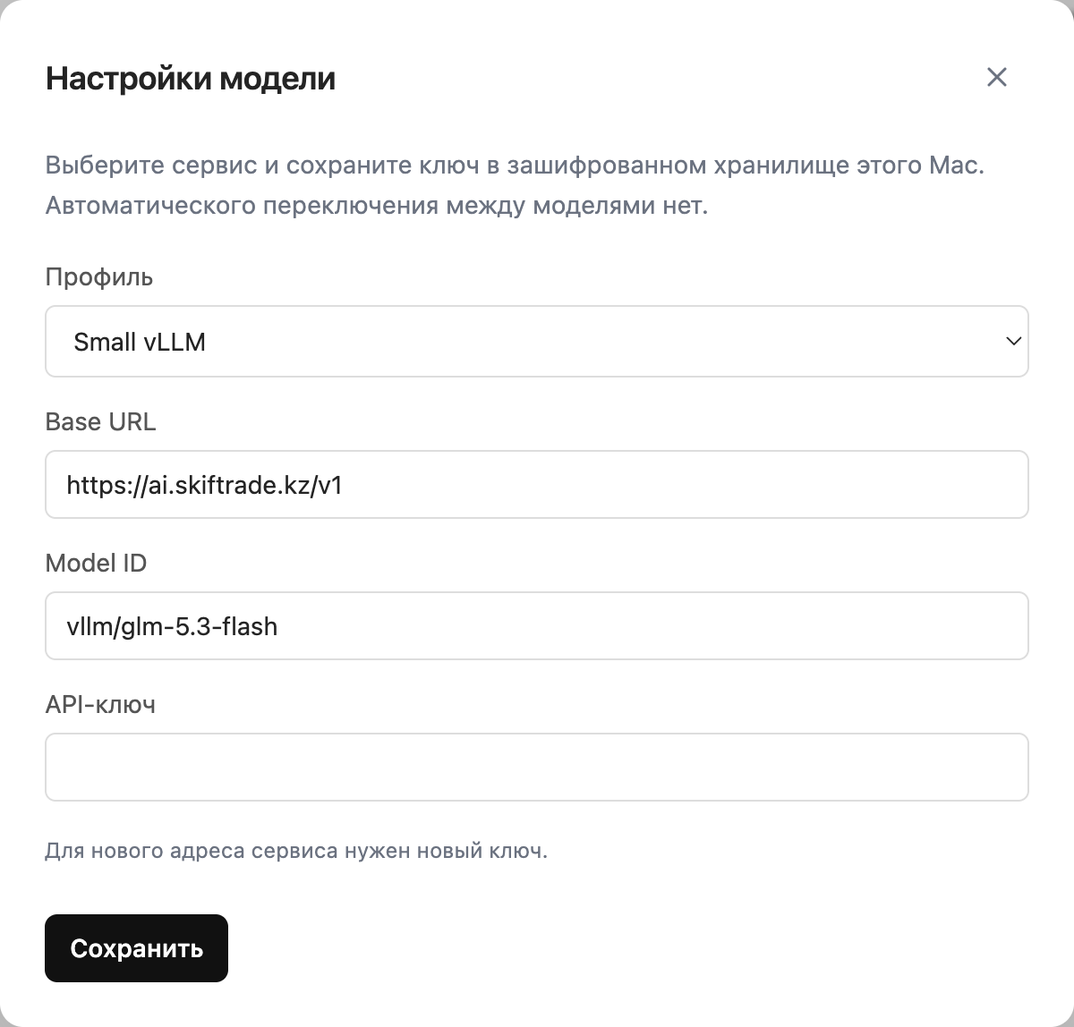
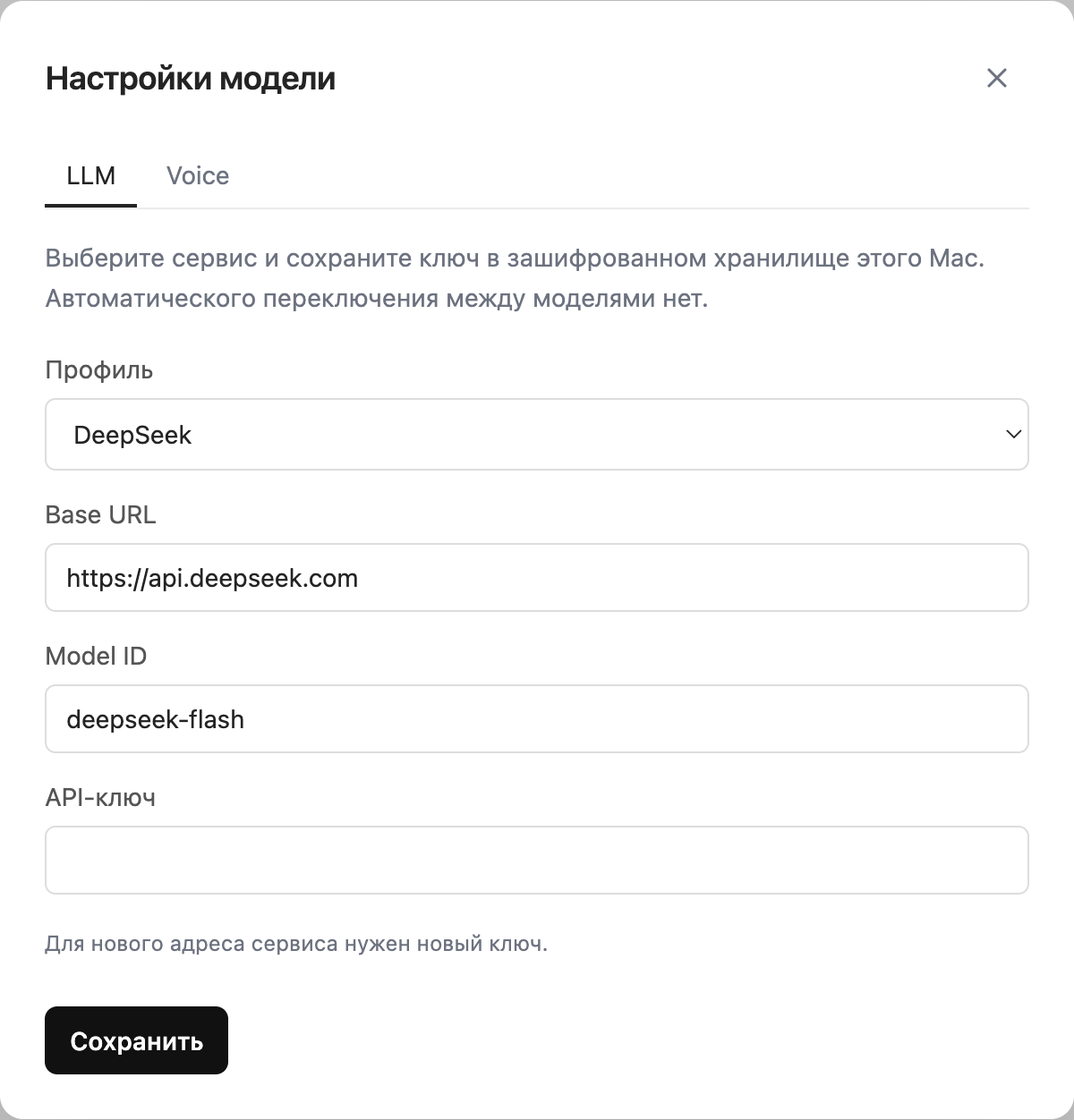
docs: add in-app dictation guide and refresh model setup instructions

diff --git a/docs/install/index.html b/docs/install/index.html
@@ -34,7 +34,10 @@
           ><a href="#launch"><span>03</span> Первый запуск</a
           ><a href="#permission"><span>04</span> Разрешить открытие</a
           ><a href="#small"><span>05</span> Войти в Small</a
-          ><a href="#llm"><span>06</span> Настроить ассистента</a>
+          ><a href="#llm"><span>06</span> Настроить LLM</a>
+          <a href="#voice"><span>07</span> Настроить Voice</a>
+          <a href="#dictation"><span>08</span> Голосовой ввод</a>
+          <a href="#changelog"><span>↻</span> Changelog</a>
         </nav>
         <div class="sidebar-note">
           Для Mac с Apple Silicon<br /><span>M1, M2, M3, M4 и новее</span>
@@ -49,7 +52,7 @@
             AI-ассистента. Пройдём каждый шаг вместе.
           </p>
           <div class="facts">
-            <span>macOS · Apple Silicon</span><span>6 простых шагов</span
+            <span>macOS · Apple Silicon</span><span>8 простых шагов</span
             ><span>Предварительная версия</span>
           </div>
         </section>
@@ -327,16 +330,19 @@
               <strong>«Настройки модели»</strong> в правом верхнем углу.
             </li>
             <li>
-              Выберите профиль <strong>Small vLLM</strong> для корпоративного
-              сервиса или <strong>«Персональный OpenAI-compatible»</strong> для
-              своего провайдера.
+              Откройте вкладку <strong>LLM</strong>. Выберите профиль
+              <strong>Small vLLM</strong>, <strong>DeepSeek</strong> или
+              <strong>OpenAI Compatible</strong>. У каждого профиля отдельный
+              API-ключ.
             </li>
             <li>
               Проверьте поля ниже и вставьте ваш <strong>API-ключ</strong>.
             </li>
             <li>
-              Нажмите <strong>«Сохранить»</strong>. Дождитесь сообщения
-              <strong>«Профиль сохранён и выбран»</strong>.
+              Нажмите <strong>«Сохранить»</strong>. Окно закроется, а
+              сохранённый профиль станет активным. Для переключения между
+              сохранёнными моделями нажмите название модели рядом с полем
+              сообщения.
             </li>
           </ol>
           <div class="mock-stage">
@@ -346,6 +352,7 @@
               aria-label="Схема Настроек модели: профиль Small vLLM, Base URL https://ai.skiftrade.kz/v1, Model ID vllm/glm-5.3-flash, пустое поле API-ключ и кнопка Сохранить."
             >
               <strong class="dialog-title">Настройки модели</strong>
+              <div class="mock-label">LLM · Voice — выбрана LLM</div>
               <div class="mock-label">Профиль</div>
               <div class="mock-field">Small vLLM <span>⌄</span></div>
               <div class="mock-label">Base URL</div>
@@ -401,6 +408,89 @@
             </p>
           </details>
         </section>
+        <section class="step" id="voice">
+          <div class="step-heading">
+            <span class="number">07</span>
+            <div>
+              <p class="eyebrow">МОДЕЛЬ РЕЧИ</p>
+              <h2>Настройте Voice</h2>
+            </div>
+          </div>
+          <p>
+            В «Настройках модели» доступны две вкладки: <strong>LLM</strong> для
+            модели ответов и <strong>Voice</strong> для распознавания речи.
+            Голосовой ввод использует Whisper large-v3-turbo и не требует
+            API-ключа.
+          </p>
+          <ol>
+            <li>
+              Откройте вкладку <strong>Voice</strong> и нажмите
+              <strong>«Скачать модель · 1,62 GB»</strong>. Модель скачивается
+              отдельно от приложения.
+            </li>
+            <li>
+              Следите за процентами, объёмом, скоростью и оставшимся временем.
+              Доступны пауза, продолжение и отмена. Дождитесь проверки и чипа
+              <strong>«Модель готова»</strong>.
+            </li>
+            <li>
+              В поле <strong>«Источник звука»</strong> выберите микрофон.
+              Нажмите <strong>«Проверить микрофон»</strong> и разрешите доступ в
+              macOS. Уровень звука показывается индикатором; проверка
+              автоматически закончится через 10 секунд.
+            </li>
+          </ol>
+          <p>
+            Распознавание выполняется локально. После установки модели для
+            диктовки интернет не нужен; для ответов ассистента нужен
+            подключённый LLM-сервис.
+          </p>
+          <details>
+            <summary>Микрофон не работает или модель больше не нужна</summary>
+            <p>
+              Проверьте «Системные настройки» → «Конфиденциальность и
+              безопасность» → «Микрофон» → Small Calendar. Если устройство
+              отключено, подключите его или выберите другой источник. Кнопка
+              «Удалить модель» освобождает место; для следующей диктовки модель
+              потребуется скачать снова.
+            </p>
+          </details>
+        </section>
+        <section class="step" id="dictation">
+          <div class="step-heading">
+            <span class="number">08</span>
+            <div>
+              <p class="eyebrow">РАБОТА С АССИСТЕНТОМ</p>
+              <h2>Как пользоваться голосовым вводом</h2>
+            </div>
+          </div>
+          <ol>
+            <li>
+              После появления «Модель готова» закройте настройки. Рядом с
+              отправкой сообщения появится кнопка микрофона.
+            </li>
+            <li>
+              Поставьте курсор в поле сообщения и нажмите микрофон. В режиме
+              <strong>«Слушаю»</strong> надиктуйте запрос по-русски, например:
+              «Покажи мои встречи на завтра».
+            </li>
+            <li>
+              Нажмите кнопку с квадратом, чтобы закончить запись. Дождитесь
+              распознавания: текст вставится в позицию курсора или заменит
+              выделенный фрагмент.
+            </li>
+            <li>
+              Проверьте имена, даты и время, исправьте текст и нажмите отправку.
+              Диктовка сама сообщение не отправляет.
+            </li>
+          </ol>
+          <div class="note">
+            Крестик или Escape отменяют запись и распознавание без вставки
+            результата. Лимит записи — 120 секунд; затем запись автоматически
+            останавливается и распознаётся. Если текст длиннее 2000 символов,
+            сократите его перед отправкой.
+          </div>
+        </section>
         <section class="finish">
           <span class="check" aria-hidden="true">✓</span>
           <div>
@@ -410,6 +500,98 @@
               расписания на сегодня.
             </p>
           </div>
+        </section>
+        <section class="step" id="changelog" aria-labelledby="changelog-title">
+          <div class="step-heading">
+            <span class="number" aria-hidden="true">↻</span>
+            <div>
+              <p class="eyebrow">ИСТОРИЯ ИЗМЕНЕНИЙ</p>
+              <h2 id="changelog-title">Changelog</h2>
+            </div>
+          </div>
+          <h3>0.1.0 · актуальная локальная сборка</h3>
+          <p class="muted">
+            <time datetime="2026-10-31">31 октября 2026</time> · macOS · Apple
+            Silicon
+          </p>
+          <dl class="field-guide">
+            <div>
+              <dt>Добавлено</dt>
+              <dd>
+                <ul>
+                  <li>
+                    <strong>Голосовой ввод на русском.</strong> Whisper
+                    large-v3-turbo распознаёт речь на Mac. Модель скачивается
+                    отдельно с прогрессом, паузой, продолжением и проверкой
+                    готовности. Доступны выбор и проверка микрофона.
+                  </li>
+                  <li>
+                    <strong>Профиль DeepSeek.</strong> Его можно настроить рядом
+                    со Small vLLM и OpenAI Compatible; ключи профилей хранятся
+                    отдельно.
+                  </li>
+                  <li>
+                    <strong>Справка внутри приложения.</strong> Инструкции,
+                    иллюстрации и примеры запросов доступны рядом с профилем.
+                    Пример подставляется в черновик для проверки перед
+                    отправкой.
+                  </li>
+                  <li>
+                    <strong>Шаблон поиска по организатору.</strong> В стартовые
+                    запросы добавлен пример поиска событий за месяц.
+                  </li>
+                </ul>
+              </dd>
+            </div>
+            <div>
+              <dt>Изменено</dt>
+              <dd>
+                <ul>
+                  <li>
+                    <strong>Настройки модели разделены на LLM и Voice.</strong>
+                    LLM содержит параметры сервиса и API-ключ; Voice — модель
+                    распознавания и источник звука. Голосовой ввод перенесён из
+                    настроек AI-помощника.
+                  </li>
+                  <li>
+                    <strong>Быстрое переключение LLM.</strong> Нажатие на
+                    название модели рядом с сообщением открывает меню
+                    сохранённых моделей. Поддерживаются клавиатура и сохранение
+                    выбора.
+                  </li>
+                  <li>
+                    <strong>Диктовка заполняет черновик.</strong> После
+                    остановки текст вставляется в позицию курсора или заменяет
+                    выделение. Отправка выполняется отдельно, отмена доступна по
+                    крестику и Escape. Лимит записи — 120 секунд.
+                  </li>
+                  <li>
+                    <strong>Инструкция обновлена.</strong> Добавлены настройка
+                    LLM/Voice, проверка микрофона и пошаговое использование
+                    голосового ввода.
+                  </li>
+                </ul>
+              </dd>
+            </div>
+            <div>
+              <dt>Исправлено</dt>
+              <dd>
+                Повышена совместимость инструментов просмотра встреч и аналитики
+                с OpenAI-совместимыми сервисами: схемы запросов передаются как
+                объекты, при этом проверка входных данных сохраняется.
+              </dd>
+            </div>
+          </dl>
+          <p class="note">
+            Этот список описывает актуальную локальную сборку. Ссылка «Скачать
+            Small Calendar» выше ведёт на ранее опубликованный snapshot
+            <code>v0.1.0-snapshot.20261031.6dca9ca</code>; перечисленные
+            обновления не добавляются в этот DMG автоматически.
+          </p>
+          <p>
+            <a href="#voice">Настроить Voice ↑</a> ·
+            <a href="#dictation">Начать диктовку ↑</a>
+          </p>
         </section>
         <footer>
           <p>Small Calendar · Предварительная сборка 31.10.2026</p>

diff --git a/prototype/src/help-content.ts b/prototype/src/help-content.ts
@@ -40,9 +40,9 @@ export const helpArticles: HelpArticle[] = [
     summary:
       "LLM — языковая модель, которая отвечает в ассистенте. Подключите сервис модели и сохраните API-ключ.",
     steps: [
-      "Откройте «Настройки модели» в панели ассистента.",
-      "Выберите «Профиль»: Small vLLM для сервиса Small или «Персональный OpenAI-compatible» для своего совместимого провайдера.",
-      "Укажите Base URL — адрес API сервиса, и Model ID — точное название модели у провайдера. Для Small vLLM эти поля уже заполнены. Для персонального профиля возьмите оба значения из настроек или документации своего сервиса.",
+      "Откройте «Настройки модели» в панели ассистента и выберите вкладку LLM.",
+      "Выберите «Профиль»: Small vLLM, DeepSeek или OpenAI Compatible. У каждого профиля свой API-ключ.",
+      "Укажите Base URL — адрес API сервиса, и Model ID — точное название модели у провайдера. Для Small vLLM и DeepSeek эти поля уже заполнены. Для персонального профиля возьмите оба значения из настроек или документации своего сервиса.",
       "Введите API-ключ выбранного сервиса в отдельное поле «API-ключ». Для Small запросите ключ у администратора сервиса; для своего провайдера создайте его в личном кабинете. Пароль от Small сюда не подходит.",
       "Нажмите «Сохранить»: профиль станет активным, окно закроется. Вернитесь к ассистенту и отправьте короткий запрос, например «Привет».",
       "Если ответ не приходит, проверьте сообщение об ошибке, доступность сервиса, адрес API, Model ID и права ключа. Сохранение настроек само по себе не проверяет ответ модели.",
@@ -50,7 +50,27 @@ export const helpArticles: HelpArticle[] = [
     image: "llm",
     caption:
       "Настройки модели: профиль, адрес API, идентификатор модели и отдельное поле для ключа.",
-    note: "Ключ хранится в зашифрованном хранилище этого Mac. Не отправляйте его в чат и не добавляйте в память. Автоматического переключения между моделями нет: смените профиль в настройках и сохраните его. В веб-прототипе подключение не выполняется; на снимке показано desktop-приложение.",
+    note: "Ключ хранится в зашифрованном хранилище этого Mac. Не отправляйте его в чат и не добавляйте в память. Для переключения между сохранёнными моделями нажмите название модели рядом с полем сообщения и выберите нужную в меню. Автоматического переключения нет. В веб-прототипе подключение не выполняется; на снимке показано desktop-приложение.",
+  },
+  {
+    id: "voice",
+    title: "Голосовой ввод",
+    summary:
+      "Настройте модель речи во вкладке Voice и диктуйте запросы в поле ассистента на русском языке.",
+    steps: [
+      "Откройте «Настройки модели» кнопкой с ползунками и перейдите на вкладку Voice. Сервис модели ответов и API-ключ настраиваются во вкладке LLM.",
+      "Нажмите «Скачать модель · 1,62 GB». Дождитесь проверки и чипа «Модель готова». Проценты, объём, скорость и оставшееся время показывают ход загрузки; её можно приостановить, продолжить или отменить.",
+      "В «Источник звука» выберите системный или подключённый микрофон. Нажмите «Проверить микрофон» и разрешите доступ в macOS. Индикатор показывает уровень; проверка остановится через 10 секунд или по кнопке.",
+      "Закройте настройки и поставьте курсор в поле сообщения. Нажмите микрофон рядом с отправкой: появятся «Слушаю», таймер и кнопка остановки. Надиктуйте запрос по-русски, например: «Покажи мои встречи на завтра».",
+      "Нажмите квадрат, чтобы остановить запись. Дождитесь распознавания: текст появится на месте курсора или заменит выделенный фрагмент. Проверьте имена, даты и время, отредактируйте и отправьте сообщение отдельной кнопкой.",
+      "Для отмены записи или распознавания нажмите крестик либо Escape. Максимальная запись — 120 секунд; при достижении лимита она остановится и начнётся распознавание.",
+    ],
+    image: "voice",
+    caption:
+      "Настройки модели → Voice: загрузка Whisper и выбор источника звука. Чистый профиль без личных данных.",
+    action: "model",
+    actionLabel: "Открыть настройки модели",
+    note: "Whisper large-v3-turbo распознаёт звук локально, без API-ключа. Интернет нужен для скачивания модели; ответы ассистента требуют настроенного LLM-сервиса. Если микрофон недоступен, проверьте «Системные настройки» → «Конфиденциальность и безопасность» → «Микрофон» → Small Calendar. При отключении устройства выберите доступный источник заново. Удалить веса можно кнопкой «Удалить модель» во вкладке Voice; для следующей диктовки потребуется скачать их снова.",
   },
   {
     id: "calendar",

diff --git a/src/renderer/help-content.ts b/src/renderer/help-content.ts
@@ -42,9 +42,9 @@ export const helpArticles: HelpArticle[] = [
     summary:
       "LLM — языковая модель, которая отвечает в ассистенте. Подключите сервис модели и сохраните API-ключ.",
     steps: [
-      "Откройте «Настройки модели» в панели ассистента или нажмите кнопку ниже.",
-      "Выберите «Профиль»: Small vLLM для сервиса Small или «Персональный OpenAI-compatible» для своего совместимого провайдера.",
-      "Укажите Base URL — адрес API сервиса, и Model ID — точное название модели у провайдера. Для Small vLLM эти поля уже заполнены. Для персонального профиля возьмите оба значения из настроек или документации своего сервиса.",
+      "Откройте «Настройки модели» кнопкой с ползунками в панели ассистента и выберите вкладку LLM. Вкладка Voice предназначена для распознавания речи.",
+      "Выберите «Профиль»: Small vLLM, DeepSeek или OpenAI Compatible. У каждого профиля свой API-ключ.",
+      "Укажите Base URL — адрес API сервиса, и Model ID — точное название модели у провайдера. Для Small vLLM и DeepSeek эти поля уже заполнены. Для персонального профиля возьмите оба значения из настроек или документации своего сервиса.",
       "Введите API-ключ выбранного сервиса в отдельное поле «API-ключ». Для Small запросите ключ у администратора сервиса; для своего провайдера создайте его в личном кабинете. Пароль от Small сюда не подходит.",
       "Нажмите «Сохранить»: профиль станет активным, окно закроется. Вернитесь к ассистенту и отправьте короткий запрос, например «Привет».",
       "Если ответ не приходит, проверьте сообщение об ошибке, доступность сервиса, адрес API, Model ID и права ключа. Сохранение настроек само по себе не проверяет ответ модели.",
@@ -54,7 +54,27 @@ export const helpArticles: HelpArticle[] = [
       "Настройки модели: профиль, адрес API, идентификатор модели и отдельное поле для ключа.",
     action: "model",
     actionLabel: "Открыть настройки модели",
-    note: "Ключ хранится в зашифрованном хранилище этого Mac. Не отправляйте его в чат и не добавляйте в память. Автоматического переключения между моделями нет: смените профиль в настройках и сохраните его.",
+    note: "Ключ хранится в зашифрованном хранилище этого Mac. Не отправляйте его в чат и не добавляйте в память. Для переключения между сохранёнными моделями нажмите название модели рядом с полем сообщения и выберите нужную в меню. Автоматического переключения нет.",
+  },
+  {
+    id: "voice",
+    title: "Голосовой ввод",
+    summary:
+      "Настройте модель речи во вкладке Voice и диктуйте запросы в поле ассистента на русском языке.",
+    steps: [
+      "Откройте «Настройки модели» кнопкой с ползунками и перейдите на вкладку Voice. Сервис модели ответов и API-ключ настраиваются во вкладке LLM.",
+      "Нажмите «Скачать модель · 1,62 GB». Дождитесь проверки и чипа «Модель готова». Проценты, объём, скорость и оставшееся время показывают ход загрузки; её можно приостановить, продолжить или отменить.",
+      "В «Источник звука» выберите системный или подключённый микрофон. Нажмите «Проверить микрофон» и разрешите доступ в macOS. Индикатор показывает уровень; проверка остановится через 10 секунд или по кнопке.",
+      "Закройте настройки и поставьте курсор в поле сообщения. Нажмите микрофон рядом с отправкой: появятся «Слушаю», таймер и кнопка остановки. Надиктуйте запрос по-русски, например: «Покажи мои встречи на завтра».",
+      "Нажмите квадрат, чтобы остановить запись. Дождитесь распознавания: текст появится на месте курсора или заменит выделенный фрагмент. Проверьте имена, даты и время, отредактируйте и отправьте сообщение отдельной кнопкой.",
+      "Для отмены записи или распознавания нажмите крестик либо Escape. Максимальная запись — 120 секунд; при достижении лимита она остановится и начнётся распознавание.",
+    ],
+    image: "voice",
+    caption:
+      "Настройки модели → Voice: загрузка Whisper и выбор источника звука. Чистый профиль без личных данных.",
+    action: "model",
+    actionLabel: "Открыть настройки модели",
+    note: "Whisper large-v3-turbo распознаёт звук локально, без API-ключа. Интернет нужен для скачивания модели; ответы ассистента требуют настроенного LLM-сервиса. Если микрофон недоступен, проверьте «Системные настройки» → «Конфиденциальность и безопасность» → «Микрофон» → Small Calendar. При отключении устройства выберите доступный источник заново. Удалить веса можно кнопкой «Удалить модель» во вкладке Voice; для следующей диктовки потребуется скачать их снова.",
   },
   {
     id: "calendar",

diff --git a/tests/desktop/help.spec.ts b/tests/desktop/help.spec.ts
@@ -31,6 +31,7 @@ test("guide works offline in a clean profile and inserts prompts without sending
       "С чего начать",
       "Аутентификация",
       "Настройка LLM",
+      "Голосовой ввод",
       "Работать с календарём",
       "Подобрать время",
       "Найти события",

diff --git a/src/renderer/ui/Help.tsx b/src/renderer/ui/Help.tsx
@@ -68,7 +68,7 @@ export function Help({
             {[
               {
                 title: "01 · Знакомство",
-                ids: ["start", "auth", "llm", "calendar"],
+                ids: ["start", "auth", "llm", "voice", "calendar"],
               },
               {
                 title: "02 · Планирование с AI",

diff --git a/docs/install/README.md b/docs/install/README.md
@@ -3,7 +3,7 @@
 Статическая инструкция для GitHub Pages. `index.html` + `style.css` + `assets/`;
 без сборки, аналитики, внешних шрифтов и форм сбора учётных данных.
 
-Контракт: шесть последовательных шагов, основное действие — скачать DMG.
+Контракт: восемь последовательных шагов, включая настройку LLM/Voice и диктовку, основное действие — скачать DMG.
 Навигация слева на desktop, горизонтальная на узком экране; картинки открываются
 в полном размере. Макеты авторизации — не интерактивные формы и явно подписаны.
 Использованы три предоставленных скриншота без персональных данных; скриншоты

diff --git a/docs/implementation/voice-input.md b/docs/implementation/voice-input.md
@@ -6,7 +6,7 @@
 
 ## Использование
 
-1. Открыть настройки AI-помощника → «Голосовой ввод».
+1. Открыть «Настройки модели» → вкладка **Voice**. Вкладка **LLM** содержит настройки языковых моделей.
 2. Скачать Whisper large-v3-turbo (1,62 GB). Интерфейс показывает проценты,
    объём, скорость и приблизительное оставшееся время; есть пауза, продолжение
    и отмена. После проверки появляется чип «Модель готова» и кнопка удаления.
